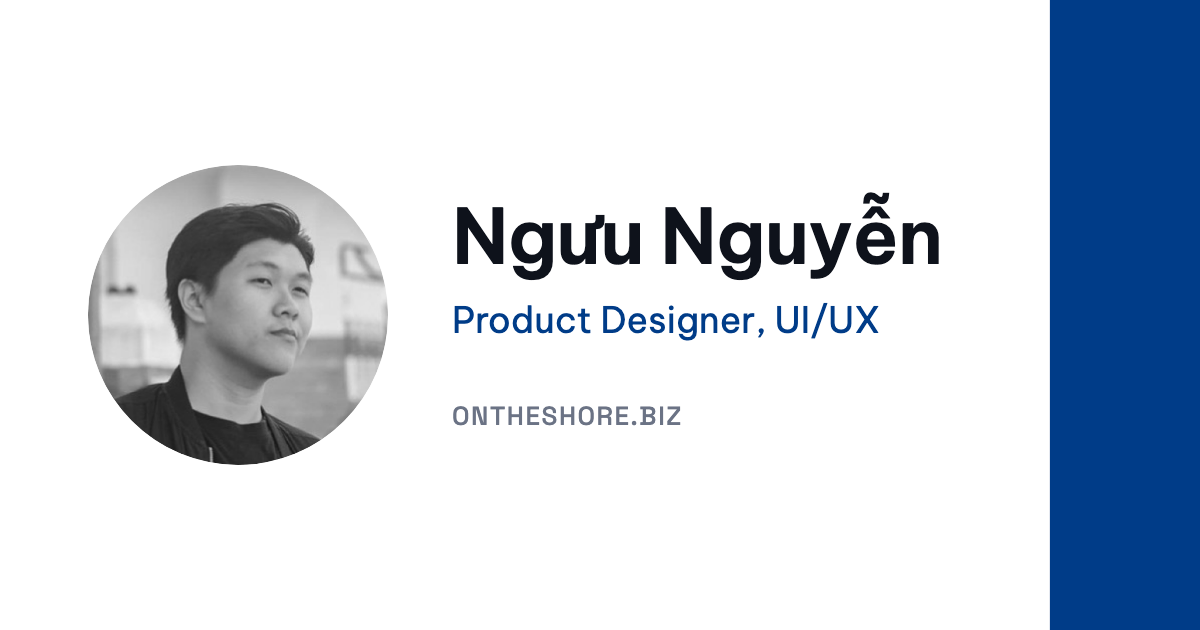
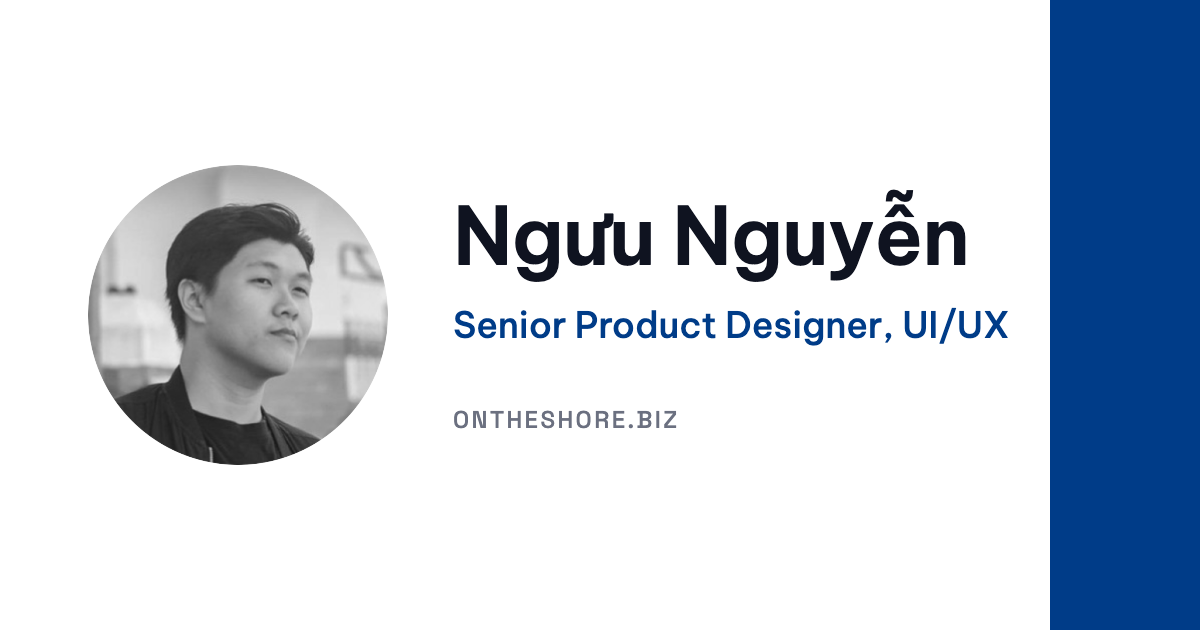
Share image: Senior Product Designer, UI/UX, with its HTML source

Changed region(s): [[0.37, 0.3016, 0.8325, 0.4524], [0.37, 0.4825, 0.8325, 0.5429], [0.37, 0.6333, 0.5858, 0.6937]]

diff --git a/scripts/og.html b/scripts/og.html
@@ -1,0 +1,65 @@
+<!doctype html>
+<!-- Nguồn của public/og.png (1200x630). Sửa chữ ở đây rồi chụp lại từ thư mục gốc repo:
+     "/Applications/Google Chrome.app/Contents/MacOS/Google Chrome" --headless=new --hide-scrollbars \
+       --force-device-scale-factor=1 --window-size=1200,630 --virtual-time-budget=10000 \
+       --screenshot=public/og.png "file://$PWD/scripts/og.html" -->
+<html lang="vi">
+  <head>
+    <meta charset="utf-8" />
+    <link
+      rel="stylesheet"
+      href="https://fonts.googleapis.com/css2?family=Be+Vietnam+Pro:wght@500;600&family=Space+Grotesk:wght@500&display=block"
+    />
+    <style>
+      body {
+        margin: 0;
+        width: 1200px;
+        height: 630px;
+        overflow: hidden;
+        background: #fff;
+        border-right: 150px solid #003c88;
+        box-sizing: border-box;
+        display: flex;
+        align-items: center;
+        gap: 65px;
+        padding-left: 88px;
+        font-family: "Be Vietnam Pro", sans-serif;
+      }
+      img {
+        width: 300px;
+        height: 300px;
+        border-radius: 50%;
+        object-fit: cover;
+        filter: grayscale(1);
+      }
+      h1 {
+        margin: 0;
+        font-size: 80px;
+        font-weight: 600;
+        line-height: 1;
+        letter-spacing: -0.01em;
+        color: #0f1320;
+      }
+      .title {
+        margin: 26px 0 0;
+        font-size: 36px;
+        font-weight: 500;
+        color: #003c88;
+      }
+      .site {
+        margin: 56px 0 0;
+        font: 500 24px "Space Grotesk", sans-serif;
+        letter-spacing: 0.1em;
+        color: #6b7080;
+      }
+    </style>
+  </head>
+  <body>
+    <img src="../src/assets/portrait.png" alt="" />
+    <div>
+      <h1>Ngưu Nguyễn</h1>
+      <p class="title">Senior Product Designer, UI/UX</p>
+      <p class="site">ONTHESHORE.BIZ</p>
+    </div>
+  </body>
+</html>
